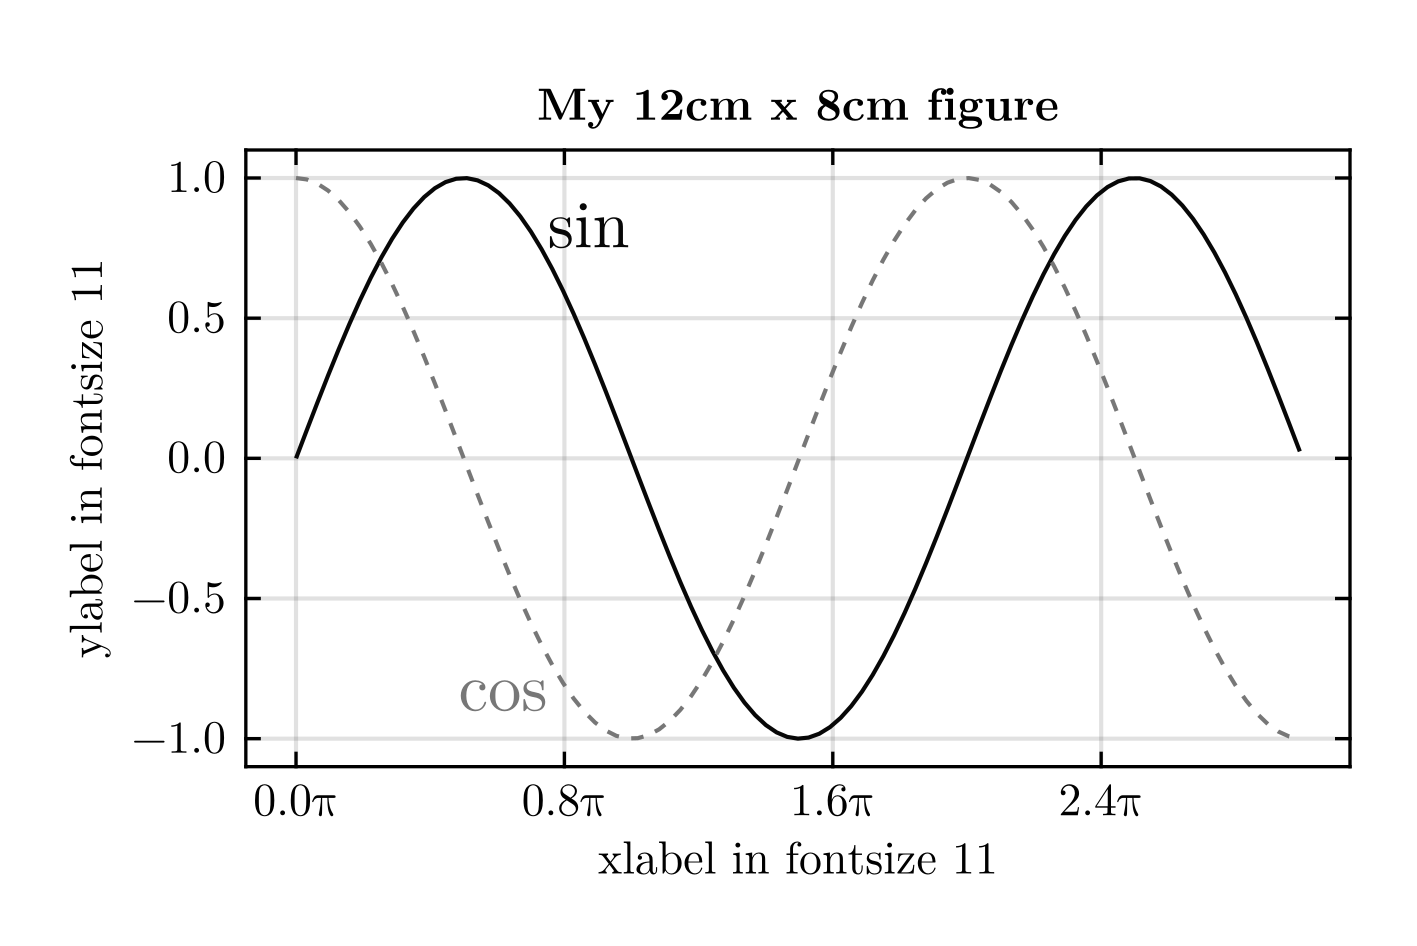
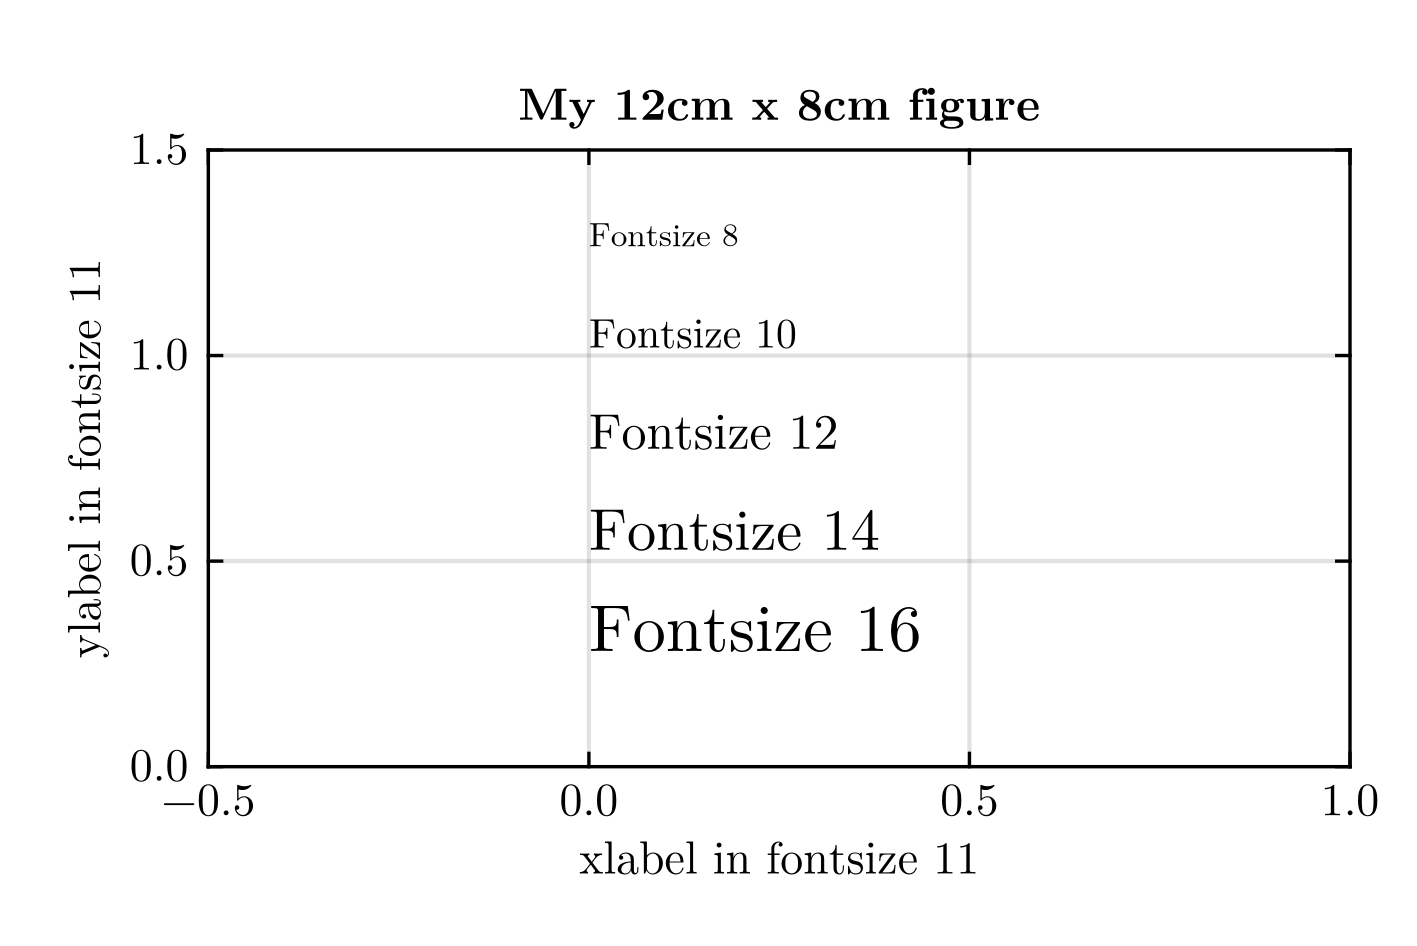
change size demo figure

diff --git a/README.md b/README.md
@@ -33,21 +33,19 @@ size_cm = (12.0, 8.0)
 dpi = 300
 size, px_per_unit = size_pixelgraphic(size_cm, dpi)
 
-# generate figure with correct canvas size
 f = Figure(; size)
 
 # fill the figure with a few things with font sizes
 ax = Axis(f[1,1];
+  limits = (-0.5, 1.0, 0.0, 1.5),
     xlabel = "xlabel in fontsize 11",
     ylabel = "ylabel in fontsize 11",
     title = "My 12cm x 8cm figure",
-    xticks = MultiplesTicks(5, π, "π"),
     )
-lines!(ax, 0.0:0.1:3π, sin)
-lines!(ax, 0.0:0.1:3π, cos)
-cycle = (color=:color) # cycle over (lineplot) colors instead of inheriting :textcolor
-text!(ax, 3π/4, sin(3π/4); text="sin", align=(:left, :bottom), cycle, fontsize=16)
-text!(ax, 3π/4, cos(3π/4); text="cos", align=(:right, :top), cycle, fontsize=16)
+fontsizes = 8:2:16
+for (i, fontsize) in enumerate(fontsizes)
+    text!(ax, 0, -i*0.25+1.5; text="Fontsize $fontsize", fontsize)
+end
 
 # save figure that will have a resolution of 300dpi at 12cm x 8cm size
 save("my_12x8cm_figure.png", f; px_per_unit)
